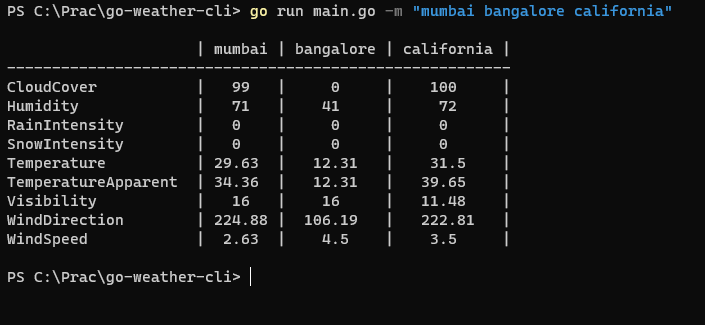
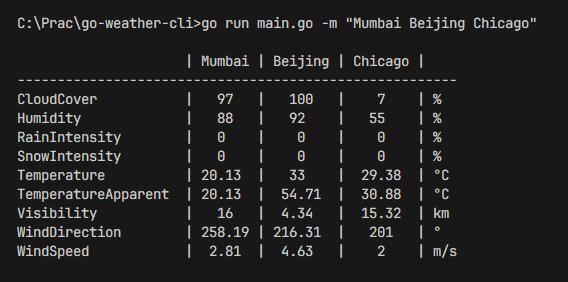
fix: Fixed crashing when multiple locations share the same name
- Added support for multiple places sharing the same name
- Updated docs and README.md

diff --git a/utils/GeoCodingAPIClient.go b/utils/GeoCodingAPIClient.go
@@ -49,31 +49,44 @@ func FetchCoOrdinates(location string) (float64, float64) {
 	defer res.Body.Close()
 
 	/*
-		- Create a variable to hold the JSON data using the type struct
-		- Unmarshal the byte array data into JSON and store it in the `resData` variable
-		- Throw error, if any
+		Handles JSON response as it can be either a single object or an array of objects since there can be multiple locations around the world which share the same name, in which case, the API returns an array of location data. The first one is assumed to be correct and used in this case
+
+		- Initialize a variable of type `GeocodeAPIResp` to hold the JSON data
+		- Attempt to unmarshal `resBody` into `resData`.
+		- If the first unmarshal attempt fails, declare a slice `resDataArr` of `GeocodeAPIResp`.
+		- Try to unmarshal `resBody` into `resDataArr`.
+		- If both unmarshal attempts fail, log a fatal error, print the response body and error message.
+		- If unmarshaling into `resDataArr` is successful, set `resData` to the first element of `resDataArr`.
 	*/
+
 	var resData GeocodeAPIResp
 	err = json.Unmarshal(resBody, &resData)
 	if err != nil {
-		log.Fatalf("Error converting GeoCoding response body to JSON struct...")
-		fmt.Println("Response Body:", string(resBody))
-		fmt.Println("Error:", err)
-		fmt.Println("Error Message:", err.Error())
+		var resDataArr []GeocodeAPIResp
+		newErr := json.Unmarshal(resBody, &resDataArr)
+		if newErr != nil {
+			log.Fatalf("Error converting GeoCoding response body to JSON struct...")
+			fmt.Print(string(resBody))
+			fmt.Println("Error Message:", err.Error())
+		}
+		resData = resDataArr[0]
 	}
 
 	/*
 		Convert the latitude and longitude to float values
 	*/
-	lat, err := strconv.ParseFloat(resData[0].Lat, 32)
+	lat, err := strconv.ParseFloat(resData.Lat, 32)
 	if err != nil {
-		log.Fatalf("Error converting Latitude to float64...")
-		fmt.Println(err.Error())
+		fmt.Println(string(resBody))
+		fmt.Println(resData.Lat)
+		fmt.Println(location, err)
+		log.Fatalf("Error converting Latitude to float64")
 	}
-	lon, err := strconv.ParseFloat(resData[0].Lon, 32)
+	lon, err := strconv.ParseFloat(resData.Lon, 64)
 	if err != nil {
-		log.Fatalf("Error converting Latitude to float64...")
-		fmt.Println(err.Error())
+		log.Fatalf("Error converting Longitude to float64...")
+		fmt.Println(resData.Lon)
+		fmt.Println(location, err)
 	}
 
 	return lat, lon

diff --git a/utils/TypeStructs.go b/utils/TypeStructs.go
@@ -52,7 +52,7 @@ type CommonWeatherData struct {
 	WindSpeed           float64 `json:"windSpeed"`
 }
 
-type GeocodeAPIResp []struct {
+type GeocodeAPIResp struct {
 	PlaceID     string   `json:"place_id"`
 	Licence     string   `json:"licence"`
 	OsmType     string   `json:"osm_type"`

diff --git a/README.md b/README.md
@@ -41,7 +41,7 @@ go run main.go Mumbai
 #### Fetch Common Weather Data for Multiple Cities
 
 ```sh
-go run main.go -m "Mumbai Bangalore California"
+go run main.go -m "Mumbai Beijing Chicago"
 ```
 
 ![Common Data for Multiple Cities](docs/common-data-multiple-cities.png)
